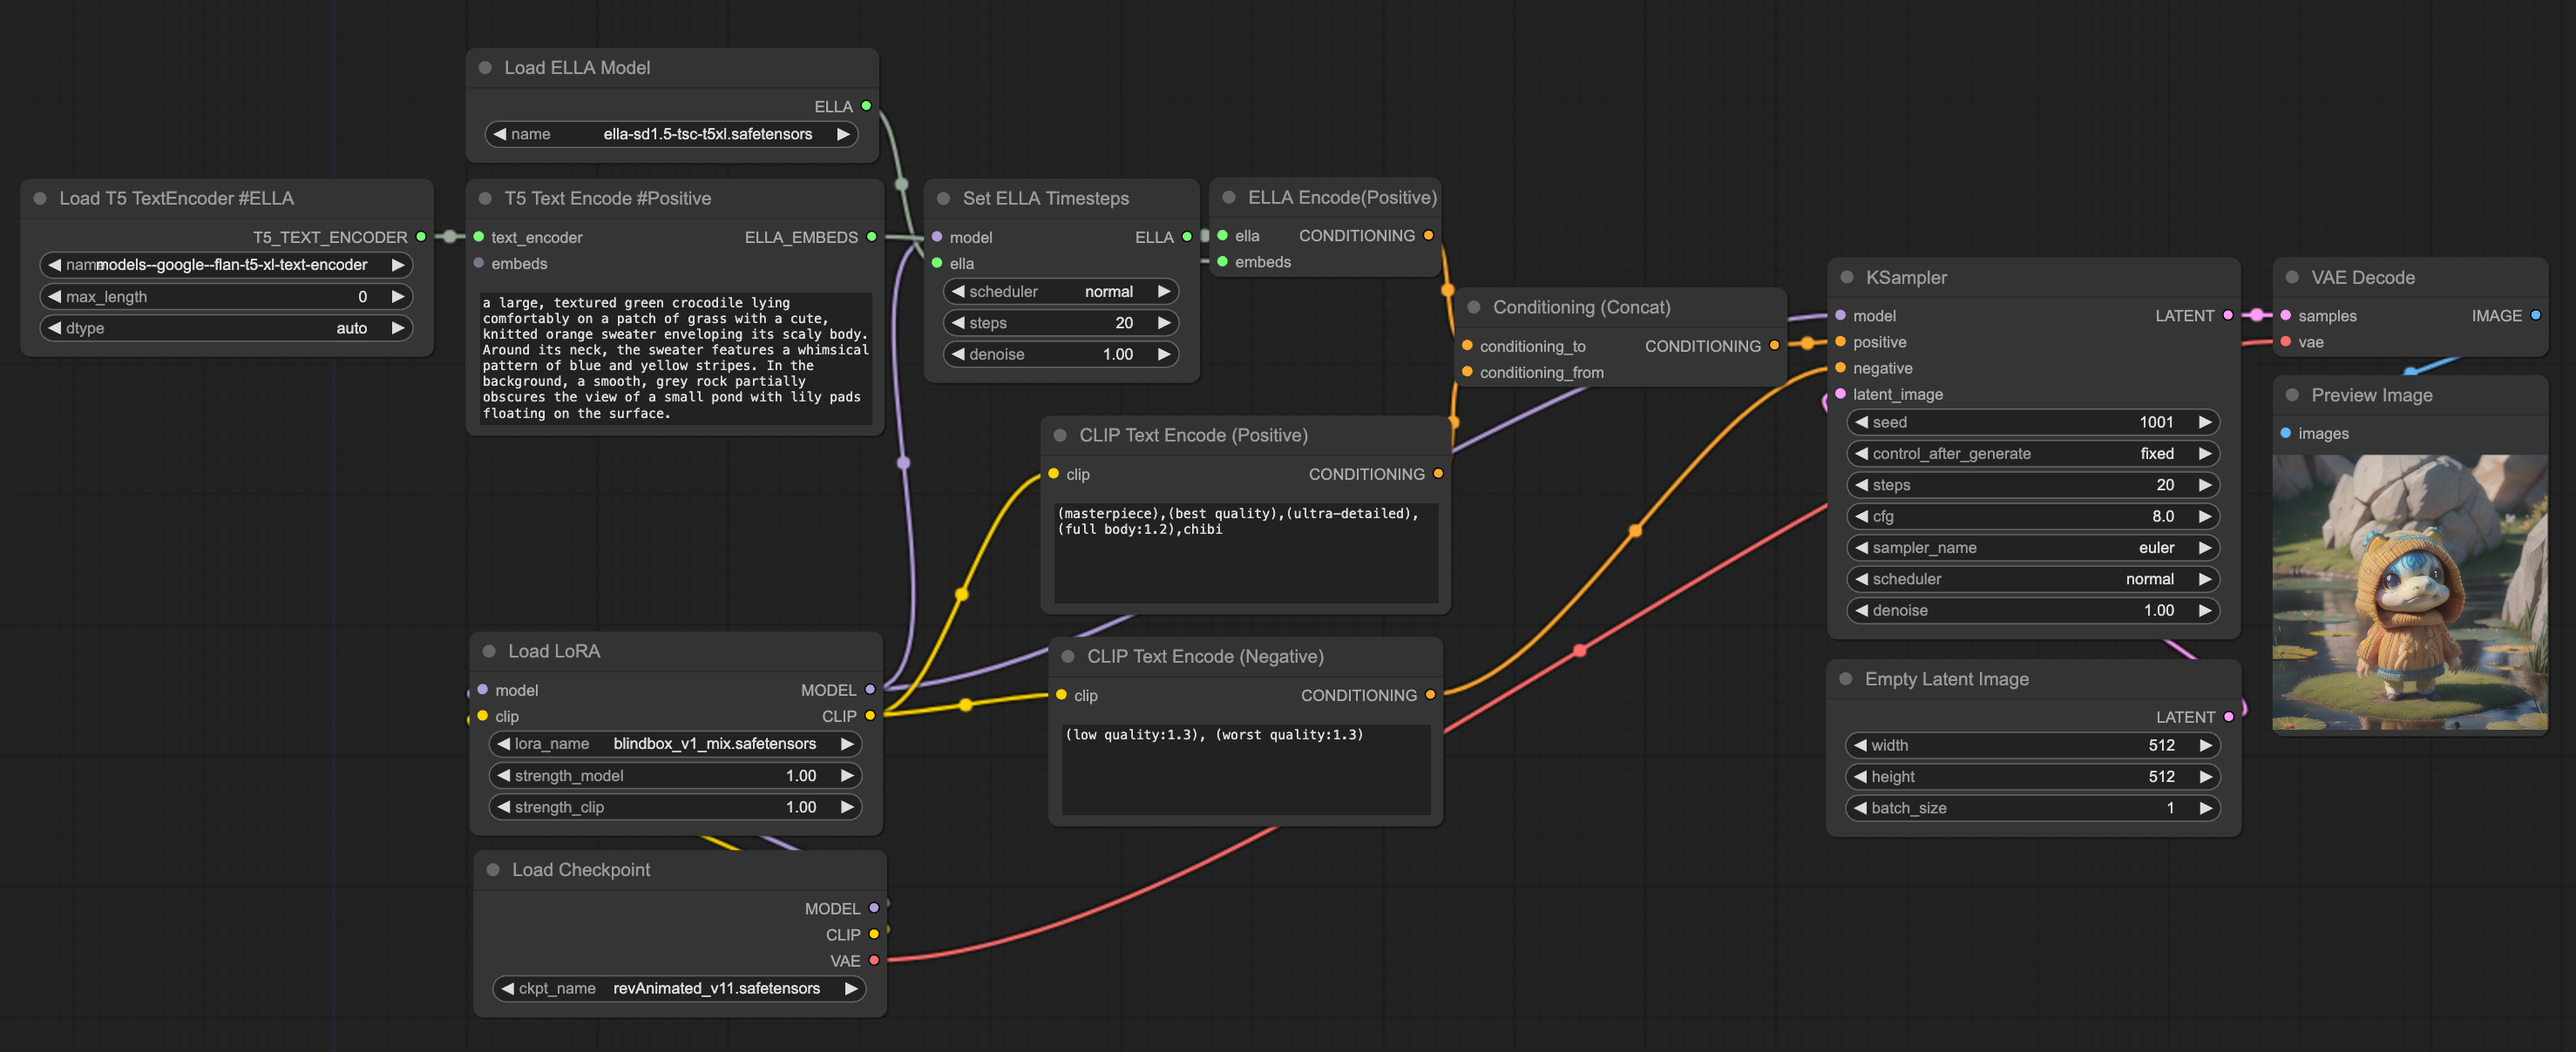
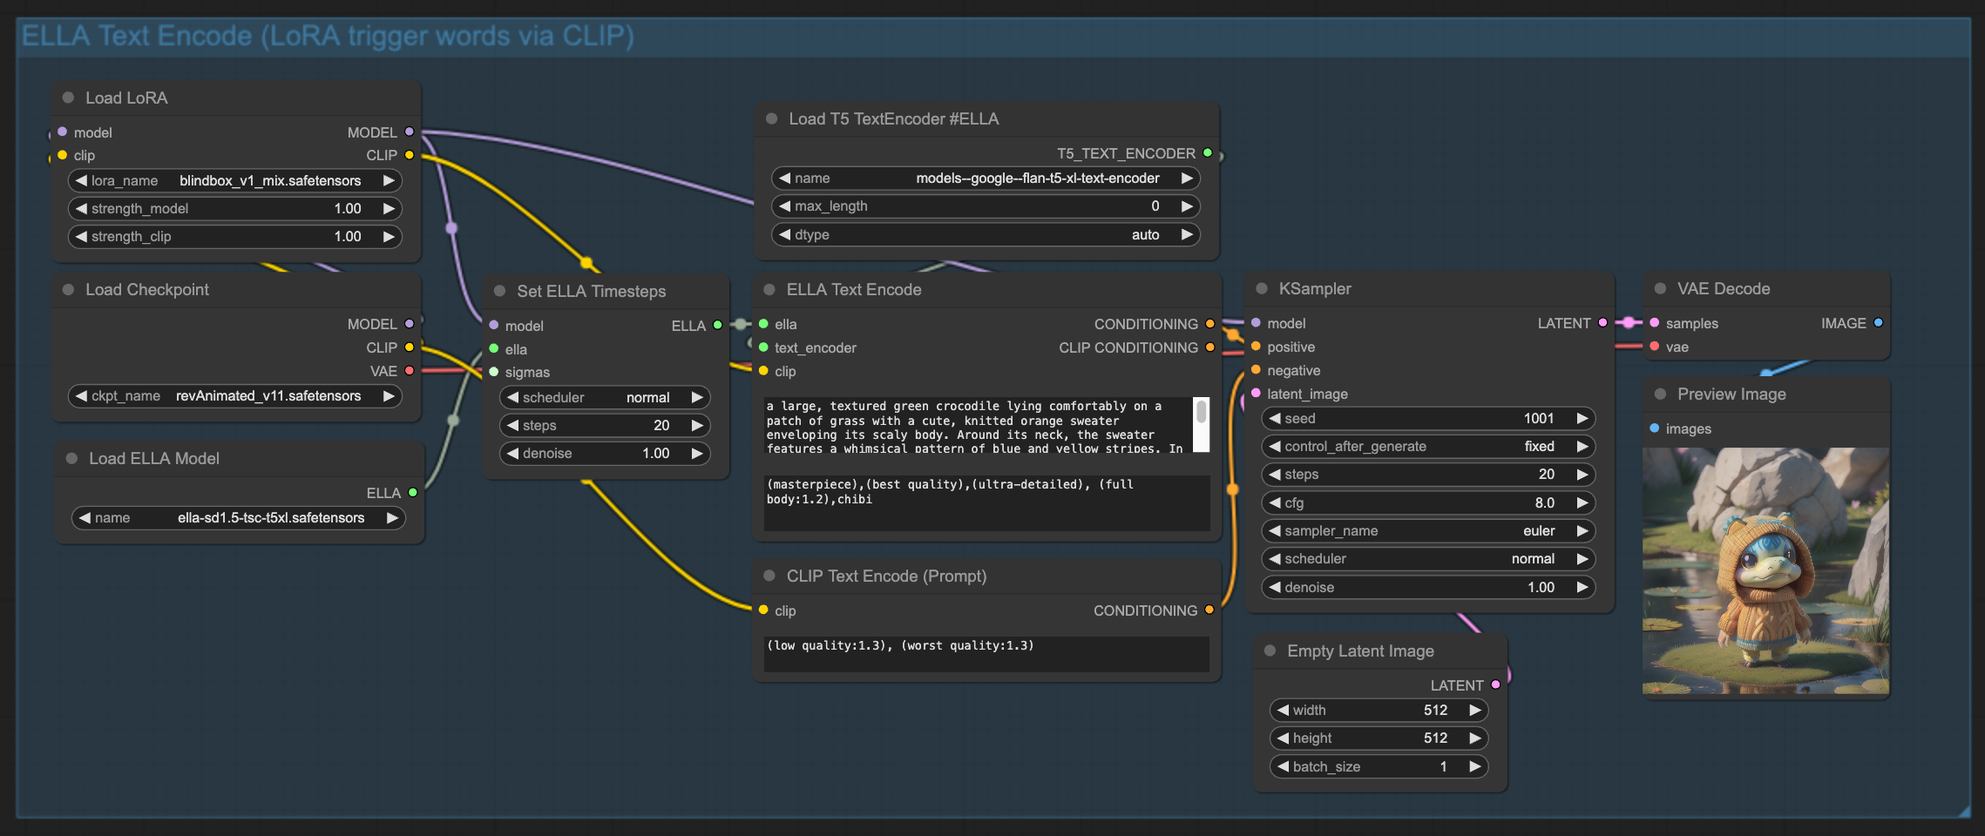
docs: udpate workflow examples

diff --git a/README.md b/README.md
@@ -42,6 +42,10 @@ All legacy workflows was compatible. But it is deprecated and will be removed in
 
 ![workflow_lora](./examples/workflow_lora.png)
 
+With `ELLA Text Encode` node, can simplify the workflow.
+
+![](./examples/workflow_ella_text_encode.png)
+
 With the upgrade(2024.4.24), some interesting workflow can be implemented, such as using ELLA only in positive. As shown below:
 
 ![workflow_lora_positive_ella_only](./examples/workflow_lora_positive_ella_only.png)
